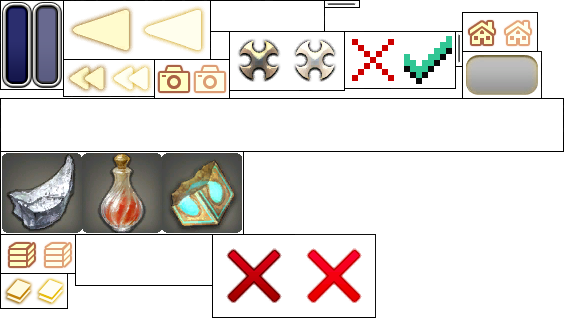
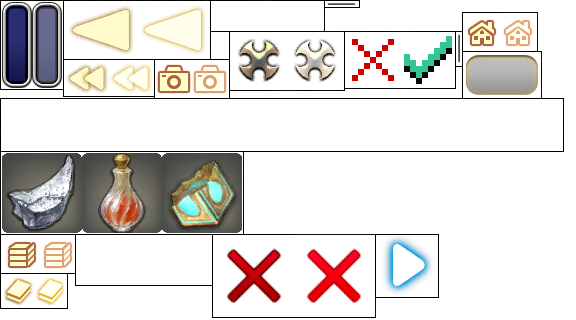
Summary floor sets text update

Changed region(s): [[0.6562, 0.7188, 0.75, 0.9375]]

diff --git a/DeepDungeonTracker/Window/StatisticsWindow.cs b/DeepDungeonTracker/Window/StatisticsWindow.cs
@@ -30,9 +30,9 @@ public sealed class StatisticsWindow : WindowEx, IDisposable
 
     private CloseButton CloseButton { get; } = new();
 
-    private IList<Button> FloorSetSummaryButtons { get; } = new List<Button>();
+    private IList<TextButton> FloorSetSummaryButtons { get; } = new List<TextButton>();
 
-    private IList<Button> PageNavigationButtons { get; } = new List<Button>();
+    private IList<NumberButton> PageNavigationButtons { get; } = new List<NumberButton>();
 
     private IDictionary<uint, (uint, string)> ClassJobIds { get; }
 
@@ -65,7 +65,7 @@ public sealed class StatisticsWindow : WindowEx, IDisposable
 
         for (int i = 0; i < 20; i++)
         {
-            this.FloorSetSummaryButtons.Add(new GenericButton());
+            this.FloorSetSummaryButtons.Add(new TextButton());
             this.PageNavigationButtons.Add(new NumberButton(i + 1));
         }
     }
@@ -125,19 +125,6 @@ public sealed class StatisticsWindow : WindowEx, IDisposable
     public override void OnClose() => this.Data.Audio.PlaySound(SoundIndex.OnCloseMenu);
 
     private Vector4 SummarySelectionColor(bool condition = true, Vector4? color = null) => (this.Data.Statistics.FloorSetStatistics == FloorSetStatistics.Summary && this.Data.Statistics.SaveSlotSummary != null && condition) ? this.Configuration.Statistics.SummarySelectionColor : color ?? Color.White;
-
-    private static (float, float) AdjustSummaryFloorSetPosition(float leftPanelAdjust, float x, float y, float top, float lineHeight, int firstFloorNumber)
-    {
-        if (firstFloorNumber == 91)
-        {
-            x = 350.0f + leftPanelAdjust;
-            y = top;
-        }
-        else
-            y += lineHeight * 2.525f;
-
-        return (x, y);
-    }
 
     private void DrawMiscellaneousIcon(float x, float y, float iconSize, IEnumerable<StatisticsItem<Miscellaneous>>? data, bool includeMapTotal)
     {
@@ -430,37 +417,40 @@ public sealed class StatisticsWindow : WindowEx, IDisposable
         this.DrawFloorText(totalX, y - 20.0f, "Total:", statistics!.TimeTotal, null, statistics.ScoreTotal, null, forceShowHours, false);
     }
 
-    private void DrawSummaryPageTexts(float leftPanelAdjust, float left, float top, float iconSize)
+    private void DrawEnemyIcons(float leftPanelAdjust, float left, float top)
     {
         var statistics = this.Data.Statistics;
         var floorSets = statistics.SaveSlot?.FloorSets ?? Enumerable.Empty<FloorSet>();
         var ui = this.Data.UI;
-
         var x = left + leftPanelAdjust;
         var y = top;
+        var lineHeight = (statistics.SaveSlot?.DeepDungeon == DeepDungeon.PalaceOfTheDead) ? 14.0f : 29.59f;
 
+        foreach (var item in floorSets)
+        {
+            ui.DrawEnemyIcon(x + 99.0f, ((int)y) - 7.0f);
+            y += lineHeight * 2.5f;
+        }
+    }
+
+    private void DrawSummaryPageTexts(float leftPanelAdjust, float left, float top)
+    {
+        this.SummaryPageCenter(leftPanelAdjust, left, top);
+        this.SummaryPageRight(top);
+    }
+
+    private void SummaryPageCenter(float leftPanelAdjust, float left, float top)
+    {
+        var statistics = this.Data.Statistics;
+        var floorSets = statistics.SaveSlot?.FloorSets ?? Enumerable.Empty<FloorSet>();
+        var ui = this.Data.UI;
+        var config = this.Configuration.Statistics;
+        var x = left + leftPanelAdjust + 25.0f;
+        var y = top;
         var totalTime = 0L;
         var totalScore = 0;
         var totalKills = 0;
-        var lineHeight = 28.0f;
-        foreach (var item in floorSets)
-        {
-            var firstFloorNumber = item.FirstFloor()?.Number ?? 0;
-            totalTime += item.Time().Ticks;
-            totalScore += item.Score();
-            totalKills += item.Kills();
-            this.DrawFloorText(x, y, $"{firstFloorNumber:D3}-{firstFloorNumber + 9:D3}:", new TimeSpan(totalTime), item.Time(), totalScore, item.Score(), true);
-
-            var kills = item.Kills();
-            if (kills != totalKills && kills > 0)
-                this.Data.UI.DrawTextAxis(x + iconSize - 16.0f, y + 35.0f, $"+{kills.ToString(CultureInfo.InvariantCulture)}", Color.Yellow, Alignment.Left);
-            this.Data.UI.DrawTextAxis(x + iconSize - 16.0f, y + 21.0f + (kills == totalKills || kills == 0 ? 8.0f : 0.0f), totalKills.ToString(CultureInfo.InvariantCulture), Color.White, Alignment.Left);
-
-            (x, y) = StatisticsWindow.AdjustSummaryFloorSetPosition(leftPanelAdjust, x, y, top, lineHeight, firstFloorNumber);
-        }
-
-        x = left;
-        y = top;
+        var lineHeight = (statistics.SaveSlot?.DeepDungeon == DeepDungeon.PalaceOfTheDead) ? 14.0f : 29.59f;
 
         foreach (var item in this.FloorSetSummaryButtons)
             item.Show = false;
@@ -469,13 +459,58 @@ public sealed class StatisticsWindow : WindowEx, IDisposable
         foreach (var item in floorSets)
         {
             var firstFloorNumber = item.FirstFloor()?.Number ?? 0;
+            totalTime += item.Time().Ticks;
+            totalScore += item.Score();
+            totalKills += item.Kills();
+            var space = "   ";
             var floorSetText = $"{firstFloorNumber:D3}-{firstFloorNumber + 9:D3}:";
+
+            var isItemSelected = (this.Data.Statistics.FloorSetTextSummary == floorSetText);
+            if (isItemSelected)
+                ui.DrawArrowSelection(x - 26.0f, y + 2.0f);
+            var ts = ui.DrawTextAxis(x, y, $"{floorSetText} ", this.SummarySelectionColor(isItemSelected), calcTextSize: true);
+            ts += ui.DrawTextAxis(x + ts.X, y, $"{space}{space}{space}", Color.White, calcTextSize: true);
+
+            ts += ui.DrawTextAxis(x + ts.X, y, $"{totalKills.ToString(CultureInfo.InvariantCulture)} ", Color.White, calcTextSize: true);
+            var kills = item.Kills();
+            if (kills != totalKills && kills > 0)
+            {
+                ts += ui.DrawTextAxis(x + ts.X, y, "(", Color.White, calcTextSize: true);
+                ts += ui.DrawTextAxis(x + ts.X, y, $"+{kills.ToString(CultureInfo.InvariantCulture)}", Color.Yellow, calcTextSize: true);
+                ts += ui.DrawTextAxis(x + ts.X, y, ") ", Color.White, calcTextSize: true);
+            }
+            ts += ui.DrawTextAxis(x + ts.X, y, space, Color.White, calcTextSize: true);
+
+            var totalTimeTS = new TimeSpan(totalTime);
+            if (totalTimeTS != default)
+                ts += ui.DrawTextAxis(x + ts.X, y, $"{totalTimeTS} ", config.FloorTimeColor, calcTextSize: true);
+
+            if (item.Time() != default && totalTimeTS != item.Time())
+            {
+                ts += ui.DrawTextAxis(x + ts.X, y, "(", Color.White, calcTextSize: true);
+                ts += ui.DrawTextAxis(x + ts.X, y, $"+{item.Time():mm\\:ss}", config.FloorTimeColor, calcTextSize: true);
+                ts += ui.DrawTextAxis(x + ts.X, y, ") ", Color.White, calcTextSize: true);
+            }
+            ts += ui.DrawTextAxis(x + ts.X, y, space, Color.White, calcTextSize: true);
+
+            if (totalScore != 0)
+            {
+                ts += ui.DrawTextAxis(x + ts.X, y, $"{totalScore.ToString("N0", CultureInfo.InvariantCulture)} ", totalScore > 0 ? config.ScoreColor : totalScore < 0 ? Color.Red : Color.White, calcTextSize: true);
+                var previousScore = item.Score();
+                if (previousScore != 0 && previousScore != totalScore)
+                {
+                    ts += ui.DrawTextAxis(x + ts.X, y, "(", Color.White, calcTextSize: true);
+                    ts += ui.DrawTextAxis(x + ts.X, y, $"{(previousScore > 0 ? "+" : string.Empty)}{previousScore.ToString("N0", CultureInfo.InvariantCulture)}", previousScore > 0 ? config.ScoreColor : previousScore < 0 ? Color.Red : Color.White, calcTextSize: true);
+                    ts += ui.DrawTextAxis(x + ts.X, y, ") ", Color.White, calcTextSize: true);
+                }
+                ts += ui.DrawTextAxis(x + ts.X, y, space, Color.White, calcTextSize: true);
+            }
 
             var button = this.FloorSetSummaryButtons[buttonIndex];
 
             button.Show = true;
-            button.Position = new Vector2(x + leftPanelAdjust, y);
-            button.Size = new(240.0f, 48.0f);
+            button.Position = new Vector2(x, y);
+            button.Size = new(ts.X, ui.GetAxisTextSize(space).Y);
             button.Draw(ui, this.Data.Audio);
 
             if (button.OnMouseLeftClick())
@@ -485,13 +520,19 @@ public sealed class StatisticsWindow : WindowEx, IDisposable
             }
 
             buttonIndex++;
-
-            (x, y) = StatisticsWindow.AdjustSummaryFloorSetPosition(0.0f, x, y, top, lineHeight, firstFloorNumber);
+            y += lineHeight * 2.5f;
         }
+    }
 
-        x = 1085.0f;
-        y = top;
+    private void SummaryPageRight(float top)
+    {
+        var statistics = this.Data.Statistics;
+        var ui = this.Data.UI;
+        var x = 1085.0f;
+        var y = top;
+        var lineHeight = 32.0f;
         var score = statistics.ScoreSummary ?? this.Data.Common.Score;
+
         if (score != null)
         {
             var textColor = Color.White;
@@ -561,23 +602,6 @@ public sealed class StatisticsWindow : WindowEx, IDisposable
         }
     }
 
-    private void DrawFloorSetKillIcons(float leftPanelAdjust, float top, float x)
-    {
-        var statistics = this.Data.Statistics;
-        var floorSets = statistics.SaveSlot?.FloorSets;
-
-        var lineHeight = 28.0f;
-        var y = top;
-
-        foreach (var item in floorSets ?? Enumerable.Empty<FloorSet>())
-        {
-            var firstFloorNumber = item.FirstFloor()?.Number ?? 0;
-            this.Data.UI.DrawMiscellaneous(x - 10.0f + leftPanelAdjust, y + 10.0f, Miscellaneous.Enemy);
-
-            (x, y) = StatisticsWindow.AdjustSummaryFloorSetPosition(0.0f, x, y, top, lineHeight, firstFloorNumber);
-        }
-    }
-
     private void SummaryPage(float leftPanelAdjust, float left, float top, float iconSize, float floorWidth, float floorHeight)
     {
         var statistics = this.Data.Statistics;
@@ -589,7 +613,7 @@ public sealed class StatisticsWindow : WindowEx, IDisposable
         var iconSize2 = iconSize * 2.0f;
         var iconSize3 = iconSize * 3.0f;
 
-        this.DrawFloorSetKillIcons(leftPanelAdjust, top, x);
+        this.DrawEnemyIcons(leftPanelAdjust, left, top);
         this.DrawMiscellaneousIcon(x2, y3, iconSize, statistics?.MiscellaneousLastFloor, false);
         this.DrawMiscellaneousIcon(x, y3, iconSize, statistics?.MiscellaneousTotal, true);
         this.DrawCofferIcon(x, y3 + iconSize, iconSize, statistics?.CoffersTotal);
@@ -598,7 +622,7 @@ public sealed class StatisticsWindow : WindowEx, IDisposable
         this.DrawEnchantmentIcon(x, y3 + iconSize3, iconSize, statistics?.EnchantmentsTotal, false);
         this.DrawTrapIcon(x + ((statistics?.EnchantmentsTotal?.Count() ?? 0) * iconSize), y3 + iconSize3, iconSize, statistics?.TrapsTotal);
 
-        this.DrawSummaryPageTexts(leftPanelAdjust, left, top, iconSize);
+        this.DrawSummaryPageTexts(leftPanelAdjust, left, top);
         this.DrawLastFloorAndTotal(x2, x, y3, true, false);
 
         this.DrawMiscellaneousText(x2, y3, iconSize, statistics?.MiscellaneousLastFloor, false);

diff --git a/DeepDungeonTracker/UI/DataUI.cs b/DeepDungeonTracker/UI/DataUI.cs
@@ -88,8 +88,6 @@ public sealed class DataUI : IDisposable
 
     public void DrawCloseButton(float x, float y, bool isMouseOver) => this.Render.DrawUIElement(this.ResourceUI.UI, x, y, 0.5f, Convert.ToInt32(isMouseOver), 2, 1, new(231.0f, 33.0f), new(112.0f, 56.0f), null, Alignment.Left);
 
-    public void DrawGenericButtonOver(float x, float y, float width, float height) => this.Render.DrawGenericButtonOver(this.ResourceUI.UI, x, y, width, height);
-
     public void DrawTextButtonOver(float x, float y, float width, float height) => this.Render.DrawTextButtonOver(this.ResourceUI.UI, x, y, width, height);
 
     public void DrawNumberButtonActive(float x, float y) => this.Render.DrawUIElement(this.ResourceUI.UI, x, y, 0.5f, 0, 1, 1, new(464.0f, 53.0f), new(77.0f, 44.0f));
@@ -101,4 +99,8 @@ public sealed class DataUI : IDisposable
     public void DrawBackground(float width, float height, bool isFocused) => this.Render.DrawBackground(this.ResourceUI.UI, width, height, isFocused);
 
     public void DrawPotsherdRegenPotion(float x, float y, int id) => this.Render.DrawUIElement(this.ResourceUI.UI, x, y, 0.5f, id, 3, 1, new(2.0f, 153.0f), new(240.0f, 80.0f));
+
+    public void DrawEnemyIcon(float x, float y) => this.Render.DrawUIElement(this.ResourceUI.Miscellaneous, x, y, 0.333f, (int)Miscellaneous.Enemy, 4, 3);
+
+    public void DrawArrowSelection(float x, float y) => this.Render.DrawUIElement(this.ResourceUI.UI, x, y, 0.25f, 0, 1, 1, new(377.0f, 236.0f), new(60.0f, 60.0f));
 }
